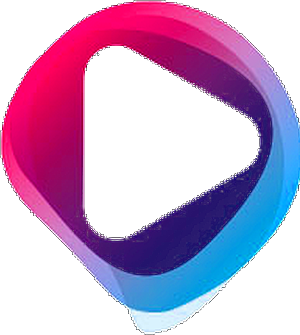
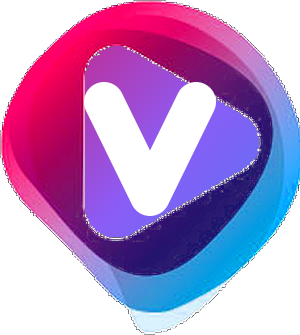
design: V-centered watermark emblem, enlarged one third
Replace the play-triangle cutout with a negative-space V in the filled
gradient emblem, and scale the mark up ~33% across every player.

Changed region(s): [[0.27, 0.2985, 0.87, 0.7164], [0.27, 0.1194, 0.72, 0.4478]]

diff --git a/components/Player.tsx b/components/Player.tsx
@@ -423,7 +423,7 @@ export default function Player({
         />
 
         {/* VERZA watermark — top-left corner while playing */}
-        <VideoWatermark videoRef={videoRef} top={12} left={12} size={40} />
+        <VideoWatermark videoRef={videoRef} top={12} left={12} size={53} />
 
         {/* Poster overlay before start — uses local poster art for instant display */}
         {!started && posterUrl && (

diff --git a/components/ShortsFeed.tsx b/components/ShortsFeed.tsx
@@ -368,7 +368,7 @@ export default function ShortsFeed({ series }: { series: Series[] }) {
       />
 
       {/* VERZA watermark — top-left corner while playing */}
-      <VideoWatermark videoRef={videoRef} top={12} left={12} size={38} />
+      <VideoWatermark videoRef={videoRef} top={12} left={12} size={51} />
 
       {/* Swipe detection layer — transparent, receives horizontal swipe */}
       <div

diff --git a/components/CreatorWatch.tsx b/components/CreatorWatch.tsx
@@ -141,7 +141,7 @@ export default function CreatorWatch({
               />
 
               {/* VERZA watermark — top-left corner while playing */}
-              <VideoWatermark videoRef={videoRef} top={12} left={12} size={38} />
+              <VideoWatermark videoRef={videoRef} top={12} left={12} size={51} />
               {!started && (
                 <button
                   onClick={play}

diff --git a/components/HorizontalFeed.tsx b/components/HorizontalFeed.tsx
@@ -129,7 +129,7 @@ function HorizontalCard({ video, index }: { video: HorizontalVideo; index: numbe
         />
 
         {/* VERZA watermark — top-left corner while playing */}
-        <VideoWatermark videoRef={videoRef} top={8} left={8} size={30} />
+        <VideoWatermark videoRef={videoRef} top={8} left={8} size={40} />
 
         {!playing && (
           <img

diff --git a/components/EpisodeFeed.tsx b/components/EpisodeFeed.tsx
@@ -320,7 +320,7 @@ function EpisodeSlide({
       />
 
       {/* VERZA watermark — top-left, beside the back button, while playing */}
-      <VideoWatermark videoRef={videoRef} top={20} left={62} size={33} />
+      <VideoWatermark videoRef={videoRef} top={20} left={62} size={44} />
 
       {/* No spinner — poster holds until video plays */}
 

diff --git a/components/VideoWatermark.tsx b/components/VideoWatermark.tsx
@@ -12,7 +12,7 @@ export default function VideoWatermark({
   videoRef,
   top = 12,
   left = 12,
-  size = 38,
+  size = 50,
   opacity = 0.88,
 }: {
   videoRef: RefObject<HTMLVideoElement | null>;
